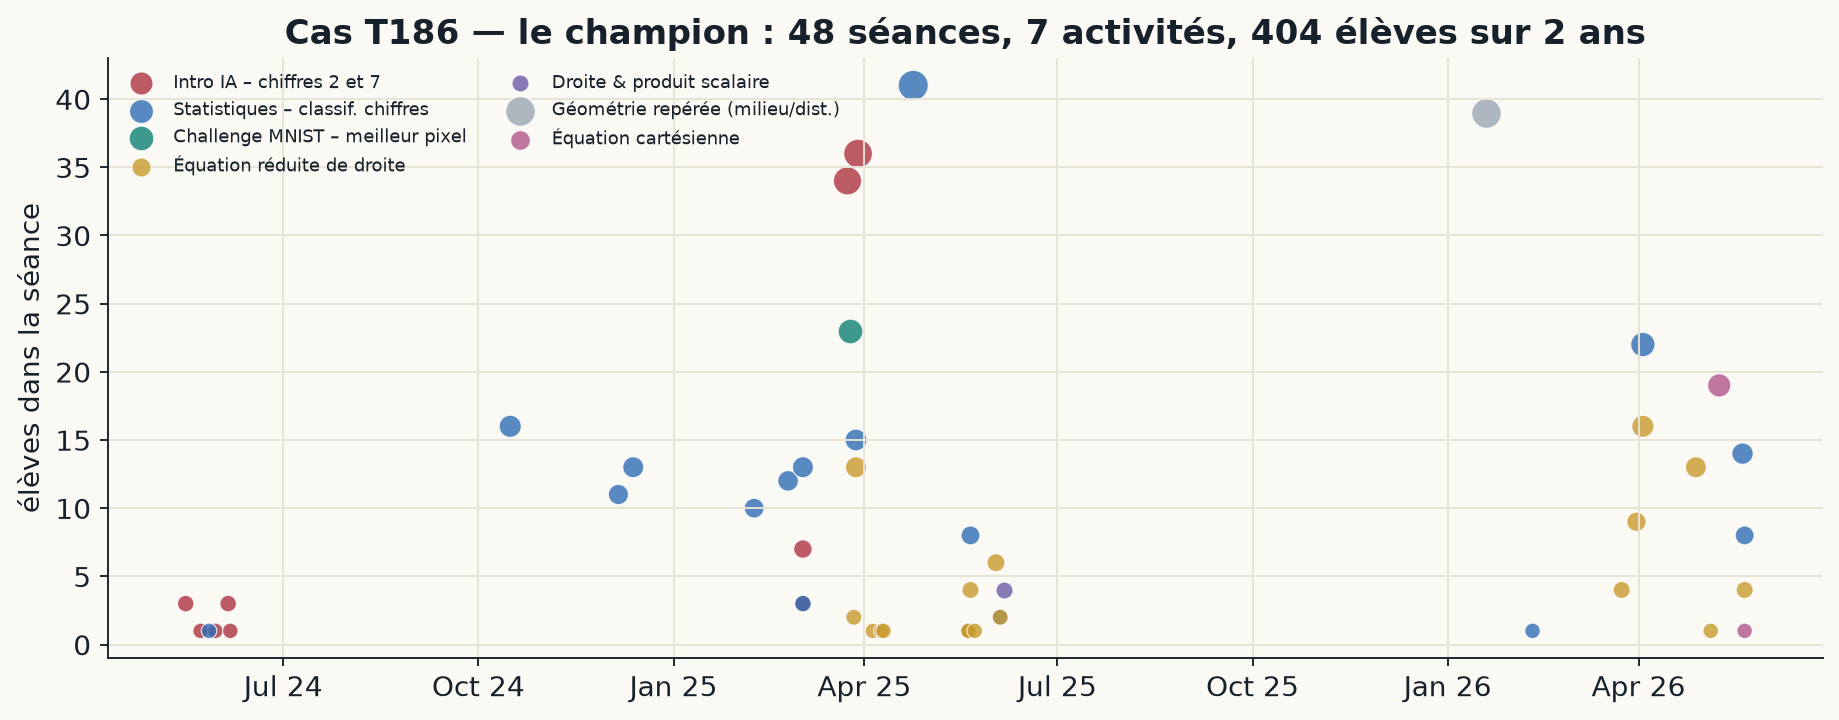
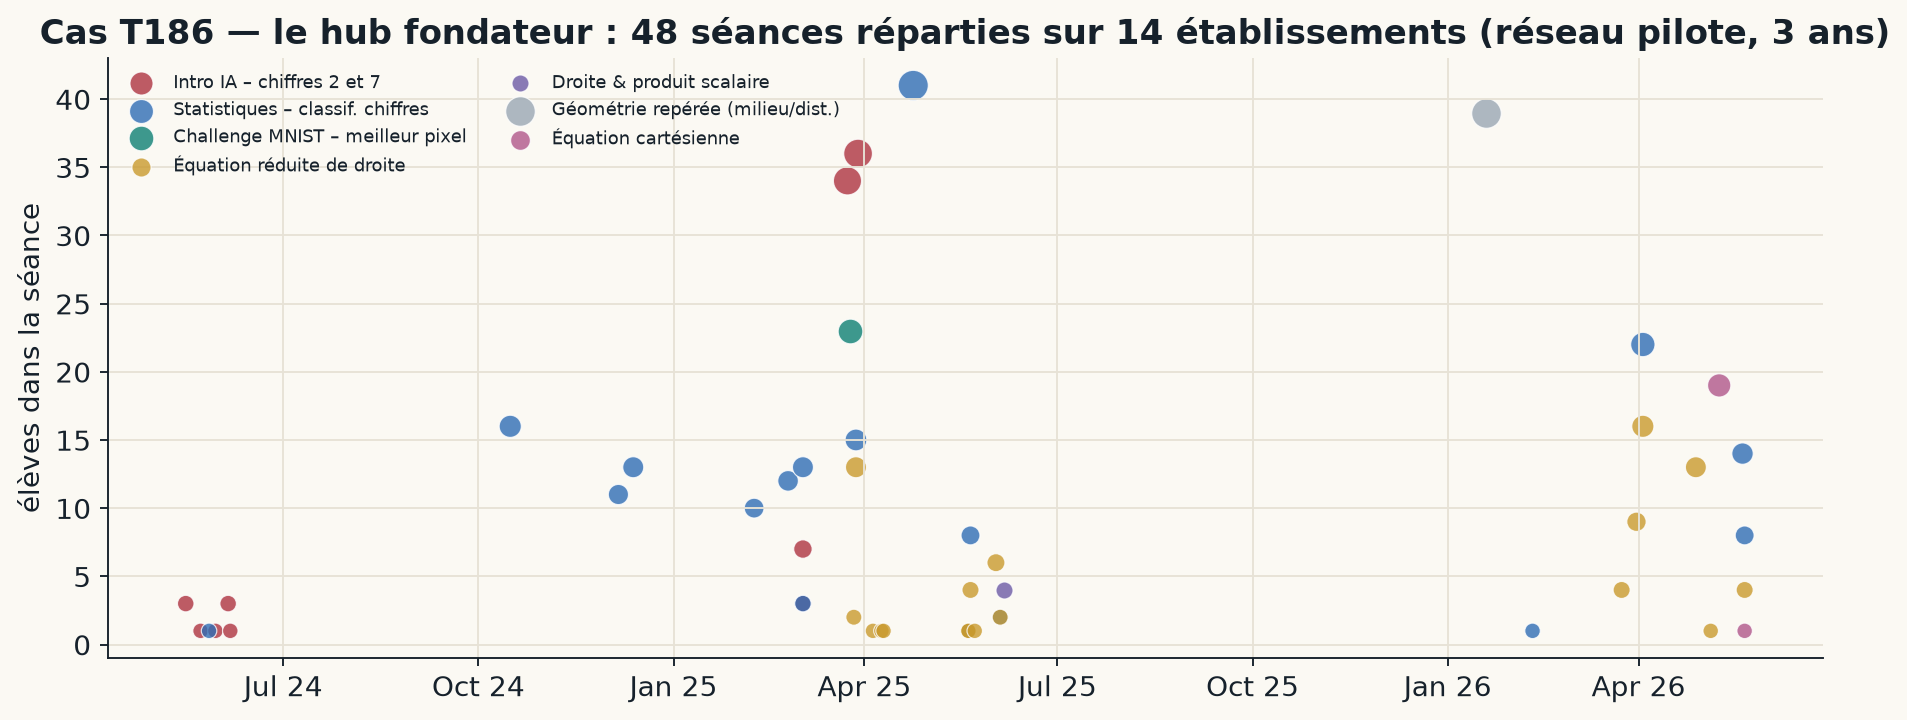
docs: coherence pass across 4 reports + final reflexive synthesis
TASK 1 — coherence across the 4 reports/dashboards (cross-references + corrections):
- Séances: the 404-pupil 'champion' T186 was the FOUNDER HUB (48 sessions across 14
  establishments, only 56 at Haubourdin) — reframed as a network phenomenon, not a model
  teacher; added the genuine organic power-user T187 (Bègles, 140 pupils in one spring).
  Regenerated the timeline chart with honest framing.
- Typologie: concentration claim now flags the hub (net-of-hub ~2000 pupils).
- Volet 1: 'demi-groupe de 17' nuanced — verified dédoublement signature is rare (~10 profs);
  contagion serves user COUNT, not retention (multi-prof null) nor depth (lighter colleagues);
  same-year (64%) vs same-month (25%) diffusion reconciled.
- Volet 2: formation drives UPTAKE not RETENTION (the +26pt gap is a composition artifact) —
  cross-ref to Typologie. Edits applied to both md and html where each claim lives.

TASK 2 — SYNTHESE_FINALE_2026.md: mechanism-driven capstone answering 'what 3 years of
Capytale×site usage tell us about adoption, profiles, formation effects, dynamics, modalities'
+ the 2026-2027 playbook. Central thesis: acquisition is won; durability & depth are the next
battle — and they are the SAME first-year gestures (>=2 activities: 76% vs 16% return;
real 45-min full-class lesson: 61% vs 20%). Separates amorçage (formation/collective/territory
= number) from durée (year-1 dose = depth & retention). Featured as capstone in README.

All PII-free (pseudonyms, establishment grain).

diff --git a/enquete_usages_2026/volet1/dashboard.html b/enquete_usages_2026/volet1/dashboard.html
@@ -202,6 +202,7 @@
     </div>
   </div>
   <div class="callout"><b>Deux portes d'entrée.</b> « Statistiques » est la <b>vitrine</b> du site (seule activité accessible sans compte). Mais <b>32 % des profs entrent par « Intro à l'IA »</b> — une activité ancienne, absente de mathadata.fr, trouvable uniquement via Capytale : <b>63 profs n'utilisent qu'elle</b> et ne voient jamais le reste du catalogue. Canal d'acquisition gratuit… et fuite à colmater.</div>
+  <div class="callout" style="border-left-color:var(--grey)"><b>⚠️ « Demi-groupe » : une inférence de taille, à nuancer.</b> Une séance de ~17 est <i>cohérente</i> avec un demi-groupe en salle info, mais la signature <i>vérifiable</i> d'un vrai dédoublement (deux séances complémentaires le même jour) n'apparaît que chez <b>~10 professeurs</b>. Beaucoup de séances de 17 sont plutôt de petites classes entières ou des groupes partiels. → voir la page <a href="seances.html">Séances</a> (§ scénarios).</div>
 </section>
 
 <section>
@@ -251,6 +252,7 @@
 <section>
   <div class="sechead"><span class="secnum">04</span><h2>Une diffusion encore solitaire</h2></div>
   <p class="sub">MathAData se diffuse prof par prof, rarement par contagion entre collègues. <b>146 établissements sur 182 (80 %)</b> ne comptent qu'un seul utilisateur. Le frein n'est pas l'essai raté entre collègues (8 cas seulement) — c'est l'absence d'un second prof.</p>
+  <div class="callout" style="border-left-color:var(--grey)"><b>⚠️ La contagion sert le nombre, pas (seul) la durabilité.</b> Le suivi fin (pages <a href="typologie.html">Typologie</a> / <a href="seances.html">Séances</a>) montre que l'établissement multi-prof <b>ne retient pas mieux</b> (30 % vs 31 % solo, p=0,87) et que les collègues recrutés adoptent un usage plus <b>léger</b>. Embarquer un 2ᵉ prof reste précieux pour le <b>nombre</b> d'usagers — mais doit s'accompagner d'un appui vers l'usage profond (2ᵉ activité, vraie séance salle info).</div>
   <div class="grid2" style="align-items:start">
     <div class="card">
       <div class="chart-ttl">Profs utilisateurs par établissement</div>

diff --git a/enquete_usages_2026/volet2/dashboard_volet2.html b/enquete_usages_2026/volet2/dashboard_volet2.html
@@ -131,6 +131,7 @@ footer{padding:48px 0 70px;color:var(--faint);font-family:var(--mono);font-size:
   <div class="wrap">
     <div class="shead"><span class="snum">02</span><h2>L'effet des formations : la concentration, pas le format</h2></div>
     <p class="lede">Le clivage utile n'est pas présentiel/webinaire. C'est <b>former un collectif local</b> (plusieurs collègues d'un établissement) vs <b>ratisser des individus dispersés</b> — <b>59 % vs 10 %</b> des établissements aboutissent en classe (facteur ~6), même si la base reste petite.</p>
+    <div class="callout"><b>⚠️ Amorçage ≠ durabilité (renvoi <a href="typologie.html">Typologie</a>).</b> Ce taux mesure si un établissement <b>bascule</b> en usage (amorçage). Attention : la formation <b>ne crée pas, à elle seule, des profs qui reviennent</b> l'année d'après — l'écart de rétention formés/non-formés est un <b>artefact de composition</b> (les établissements formés contiennent déjà plus de pionniers). La formation amorce là où un collectif s'en saisit ; la durabilité se joue ensuite sur la <b>dose de la 1ʳᵉ année</b> (≥ 2 activités, vraie séance), pas sur la formation en soi.</div>
     <figure class="reveal">
       <p class="figtitle">Aboutissement en classe selon la NATURE de la formation (% d'<b>établissements distincts</b> ayant une vraie classe ; n/N affiché)</p>
       <div class="scroll"><svg id="c_nature" width="1020" height="250"></svg></div>

diff --git a/enquete_usages_2026/commons/SYNTHESE_FINALE_2026.md b/enquete_usages_2026/commons/SYNTHESE_FINALE_2026.md
@@ -1,0 +1,169 @@
+# MathAData 2023-2026 : ce que trois ans d'usage révèlent
+## Synthèse transversale — et le levier d'un meilleur déploiement en 2026-2027
+
+**Date** : 21 juin 2026
+**Sources** : trois ans d'usage Capytale (déc. 2023 → juin 2026 ; 7 353 affectations, 224 profs ayant enseigné, 5 854 élèves) croisés au site mathadata.fr (2 715 comptes, inscriptions, formations, consultations). Synthèse des quatre rapports de l'enquête — [Volet 1](../volet1/RAPPORT_ENQUETE_USAGES.md) (usage classe), [Volet 2](../volet2/RAPPORT_VOLET2.md) (site × Capytale), [Typologie](TYPOLOGIE_PROFILS_2026.md) (le prof), [Séances](RAPPORT_SEANCES_2026.md) (la séance) — chacun vérifié de façon adversariale. Tous les chiffres sont au grain prof/établissement, pseudonymisés, sans donnée personnelle.
+
+---
+
+## La thèse en un paragraphe
+
+En trois ans, MathAData a **gagné la bataille de l'acquisition** et **pas encore celle de la durée ni de la profondeur**. La croissance est spectaculaire (+105 % d'usages en un an) mais d'une nature précise : elle repose sur un **flux de nouveaux entrants** qui, en majorité, font un usage **unique, court, superficiel et de fin d'année**, puis ne reviennent pas. Le déploiement 2026-2027 ne se joue donc **pas** sur « attirer plus » — la machine à recruter fonctionne remarquablement — mais sur **« faire revenir » et « faire approfondir »**. Et le résultat le plus actionnable de cette enquête est que **ce sont les mêmes gestes** : les comportements de profondeur de la première année (une 2ᵉ activité, une vraie séance de 45 min en salle info, une 2ᵉ séance) sont aussi les meilleurs **prédicteurs du retour** l'année suivante. Les deux objectifs du pilote — plus de profs *et* un meilleur mode d'usage — convergent sur un seul levier : **installer la dose dès les premières semaines**.
+
+---
+
+## I. Une croissance par acquisition, pas par accumulation
+
+L'année 2025-2026 a **plus que doublé** le volume de la précédente (2 181 → 4 479 usages élèves, année non finie). Mais la mécanique de cette croissance est singulière, et fragile.
+
+**La base se renouvelle plus qu'elle ne s'accumule.** Sur les 151 profs qui ont enseigné en 2025-2026, **123 (81,5 %) sont entièrement nouveaux**, et ils génèrent **74 % du volume** de l'année. L'effet net des profs déjà présents est **quasi nul** : les 26 récurrents ont fait 1 065 élèves en 24-25 contre 1 062 en 25-26. Autrement dit, chaque rentrée n'**ajoute** pas une couche sur la précédente — elle la **remplace**. Le noyau dur — profs présents les trois années — se compte sur les **doigts d'une main (4)**.
+
+**La rétention est le point de fuite, pas l'acquisition.** D'une année sur l'autre, seuls **~31 %** des professeurs reviennent enseigner (mesuré proprement sur les 101 profs qui *pouvaient* revenir, c.-à-d. entrés avant 2025-2026 ; les entrants de cette année ne sont pas encore observables). Les trois rapports convergent (30 % Volet 1, 29,5 % Volet 2, 31 % Typologie). Deux profs sur trois décrochent.
+
+**Le seul vrai changement de fond entre les vagues est encourageant.** À stade comparable (première année d'usage), les trois cohortes 2023→2024→2025 sont **comportementalement identiques** (médiane 2 séances, ~45 % de one-shot). Une seule chose dérive nettement : la part des entrants qui atteignent **une classe entière dès leur première année** passe de **5 % → 44 % → 57 %**. L'outil n'entre plus par un test timide ; il entre de plus en plus **directement en vraie classe**. C'est le signe que MathAData a réussi sa mue — de « gadget IA » (l'activité historique recule de −485 usages) vers un **outil arrimé au programme de 2nde** (statistiques +1 340, géométrie +1 236).
+
+> **Mécanisme.** On a construit une excellente machine à *recruter* et à *faire entrer en classe*. On n'a pas (encore) construit la machine à *faire revenir*. Tant que la seconde n'existe pas, le volume restera proportionnel au seul effort d'acquisition de l'année — un château bâti sur du sable qu'il faut re-verser chaque rentrée.
+
+---
+
+## II. Deux goulots — et le second est le vrai problème
+
+L'intuition naturelle est que le défi est de « faire passer les profs à la classe ». Les données disent le contraire : pour un vrai enseignant, atteindre la classe n'est **pas** le goulot.
+
+**Goulot 1 — atteindre la classe : déjà franchi par presque tous les vrais profs.** Sur 401 comptes engagés, 224 (56 %) ont enseigné à leurs élèves. Mais les 177 qui n'y arrivent pas sont **à 79 % des stagiaires vus seulement en formation** (140) ou des testeurs sans classe (37). Une fois retirés les stagiaires, **86 % des vrais enseignants atteignent une classe**. Le « filtre » d'avant-classe est donc **quasi définitionnel** (être ou non en responsabilité de classe), pas un problème d'outil. Le type d'établissement ne discrimine rien une fois les stagiaires retirés (lycée 87 % vs collège 83 %).
+
+**Goulot 2 — revenir : c'est ici que tout se perd.** Et c'est un goulot d'un genre particulier, illustré par le **paradoxe du déployeur** : les 105 « déployeurs classe entière » — le gros du peloton — atteignent une vraie classe à un taux proche des pionniers (44 % d'entre eux dépassent 20 élèves dès l'an 1), **et pourtant 0 sur 41** (parmi les éligibles) ne reviennent l'année suivante. **Atteindre une vraie classe ne garantit pas de revenir.**
+
+> **Mécanisme.** Les deux échecs sont **distincts** : réussir le premier contact (un déploiement classe entière) et réussir le réengagement (revenir l'an d'après) sont deux compétences séparées. La majorité réussit le premier et rate le second. **Tout l'effort [phone redacted] doit viser le réengagement N+1, pas l'acquisition (saturée) ni le premier contact (acquis).**
+
+---
+
+## III. L'usage est massivement superficiel — et c'est l'autre moitié de l'enjeu
+
+Au-delà de « combien de profs reviennent », il y a « comment ils utilisent l'outil ». Là aussi, le constat est net : **l'usage dominant est mince**.
+
+La séance type est une **courte salve d'un matin de semaine** : médiane ~7 minutes d'activité reconstruite, 66 % sous 15 minutes ; 45 % des séances le matin, pics mardi/jeudi. **41 % des profs (91/224) font une seule séance**, point. Un prof sur cinq (« petits groupes ») touche ~4 élèves qui travaillent **6 minutes** — un survol, pas une séance.
+
+Les **modes « riches »** — précisément ceux que le pilote veut développer en 2026-2027 — restent **minoritaires** :
+
+| Mode de qualité | Prévalence 2025-26 |
+|---|---|
+| Enseigner **≥ 2 activités** dans l'année | 52 profs / 224 (**23 %**) |
+| Faire **≥ 1 vraie séance de 45 min en classe entière** | 63 profs / 224 (**28 %**) |
+| Faire un **vrai demi-groupe** (dédoublement vérifié) | **~10 profs** (signature rare) |
+| **Revenir** l'année suivante | 31 % (cohorte éligible) |
+
+> **Mécanisme.** La **profondeur est la ressource rare** du dispositif. Et — point capital de mise en cohérence (cf. [Séances](RAPPORT_SEANCES_2026.md) §III, [Volet 1](../volet1/RAPPORT_ENQUETE_USAGES.md) §1.3) — beaucoup de ce qu'on prenait pour des demi-groupes (séances de ~17 élèves) sont en fait de **petites classes entières ou des groupes partiels** : le *vrai* dédoublement (deux séances complémentaires le même jour) ne se vérifie que chez une dizaine de profs. Le « demi-groupe en salle info », souvent présenté comme le mode dominant, est en réalité une **cible à construire**, pas un acquis.
+
+---
+
+## IV. La découverte centrale : profondeur et durée sont le même geste
+
+Voici le résultat qui relie les deux moitiés de l'enquête — et qui doit organiser le déploiement 2026-2027.
+
+**Les gestes de profondeur de la première année sont les meilleurs prédicteurs du retour.** Sur la cohorte éligible (n=101, retour moyen 31 %) :
+
+| Geste posé dès la 1ʳᵉ année | Taux de retour l'année suivante |
+|---|---|
+| A enseigné **≥ 2 activités** | **76 %** (vs 16 % pour une seule) |
+| A fait **≥ 1 vraie séance de 45 min en classe entière** | **61 %** (vs 20 % sans) |
+| A fait **≥ 2 séances** | 40 % (vs 20 % pour une seule) |
+| Est entré **en milieu d'année** (déc-fév) plutôt qu'en fin (mars-juin) | 53 % (vs 27 %) |
+| **« One-shot » sans test** (le profil négatif) | **19 %** |
+
+À l'inverse, ce qui **ne** prédit **pas** la durée : être dans un établissement multi-prof (30 % vs 31 % solo, écart nul), avoir été formé (l'écart apparent est un artefact, §VI), la taille de classe en soi (un déploiement classe entière *peu profond* — une seule activité, deux séances — ne retient pas).
+
+> **Mécanisme — et l'honnêteté qui va avec.** Attention à la causalité : un prof qui dose dès l'an 1 est aussi un prof plus engagé au départ (confusion partielle). On ne peut donc pas affirmer que « faire une 2ᵉ activité *cause* le retour ». Mais le message opérationnel tient quand même, et il est puissant : **le prof qui va durer se reconnaît dès ses premières semaines à la profondeur de son premier usage.** C'est un signal **précoce et observable** sur lequel agir — et viser à le *provoquer* (pousser la 2ᵉ activité, la vraie séance) est le pari le plus rationnel, parce qu'il sert les **deux** objectifs à la fois.
+
+**Et la durabilité se construit, elle n'est pas innée.** Parmi les 32 profs pluriannuels, **25 ont démarré modestement** (< 5 séances la première année) avant de grandir ; aucun n'était un « génie d'emblée ». Corollaire stratégique : **ne pas pré-sélectionner les profs « intenses »** — il faut **nourrir le 2ᵉ geste** des entrants modestes (ceux qui font une 2ᵉ séance sont déjà sur la bonne pente).
+
+---
+
+## V. Les déterminants des modes-cibles, un par un
+
+Le pilote vise explicitement, pour 2026-2027 : **≥ 2 activités par classe et par an, de vrais demi-groupes, des séances de ≥ 45 min en salle info.** Voici ce que les données disent des **déterminants** de chacun.
+
+**1. Le parcours à ≥ 2 activités : un problème de *progression annuelle*, pas de catalogue.**
+Le parcours-type des profs qui diversifient est **Statistiques → Géométrie repérée** (18 profs) — exactement l'ordre du programme de 2nde. Ce n'est donc pas qu'il manque des activités (le catalogue en compte 12), c'est qu'il manque un **parcours annuel lisible** qui dit *quand* placer la 2ᵉ. Déterminant : un séquençage explicite « entrée par les statistiques à l'automne → géométrie analytique à l'hiver/printemps ». Le levier est d'autant plus rentable que la 2ᵉ activité **double le taux de retour**.
+
+**2. Les vrais demi-groupes : un problème d'*équipement et d'organisation établissement*.**
+Les ~10 profs qui font de vrais dédoublements sont des **pionniers**, dans des établissements **un peu plus favorisés** (IPS médian 115 vs 110) — un proxy de l'**accès à une salle informatique** et d'une organisation en groupes dédoublés. Déterminant : la **capacité matérielle** (postes, créneaux salle info) bien plus que l'envie. Levier : cibler les établissements à capacité salle-info connue, et fournir un **protocole de dédoublement clé en main** (le groupe A en TP pendant que le groupe B fait autre chose, puis inversion).
+
+**3. Les séances de ≥ 45 min : un problème de *conception d'activité* (et un marqueur d'engagement).**
+20 % des séances dépassent 45 min ; **28 % des profs** en font au moins une en classe entière — et ceux-là **reviennent à 61 %** (vs 20 %). Une séance de 45 min suppose une activité **assez riche pour remplir l'heure** (vs une démo de 10 min). Déterminant : la **densité pédagogique** de l'activité + l'accès salle info. Levier : signaler/concevoir des activités « **séance complète 55 min** » distinctes des « démos », et diffuser le **guide de connexion Capytale** — dont **74 % des lecteurs cliquent ensuite vers Capytale** : c'est le marqueur de passage à l'acte le plus fiable du funnel.
+
+**4. La récurrence (revenir avec une nouvelle promo) : un problème d'*intégration à la progression*.**
+27 « triplets » prof × activité × établissement sont **rejoués** sur deux ans ou plus (la même séance « Intro IA » rejouée à 448 jours d'écart, 31 puis 29 élèves). Déterminant : que l'activité ait trouvé sa **place fixe dans la progression annuelle** du prof. Levier : la **relance de rentrée** ciblée (« vous aviez utilisé X l'an dernier, voici la suite pour la même classe »), qui attaque directement la rétention de 31 %.
+
+> **Mécanisme transversal.** Ces quatre modes **co-occurrent** : un prof qui fait une vraie séance de 45 min est souvent celui qui fait 2 activités et revient. Ce ne sont pas quatre leviers indépendants mais **quatre faces d'un même basculement** — celui d'un usage « démo/essai » vers un usage « cours intégré ». Provoquer *un* de ces gestes tôt augmente la probabilité des autres.
+
+---
+
+## VI. Formation, collectif, territoire : des leviers d'*amorçage*, pas de *durée*
+
+Trois leviers qu'on crédite spontanément de l'usage durable. Les données obligent à les **requalifier** : ils agissent sur l'**amorçage** (faire basculer un établissement en usage), pas sur la **durabilité** individuelle.
+
+**La formation est un haut d'entonnoir puissant… à faible rendement, et non causal sur la durée.**
+- Elle remplit massivement le haut : 631 comptes formés. Mais **sur 148 comptes vus en formation, ~6 (4 %) ont ensuite enseigné** à leurs élèves. C'est *le* point de fuite.
+- Ce qui distingue les formations qui aboutissent, ce n'est **pas le format** (présentiel vs webinaire) mais la **concentration** : une formation **établissement-ciblée** (plusieurs collègues d'un même lieu) fait basculer **59 % des établissements** vs **10 %** pour une journée académique de masse (1 prof dispersé) — un **facteur ~6**, alors que les deux sont du présentiel.
+- Mais — mise en cohérence essentielle (cf. [Typologie](TYPOLOGIE_PROFILS_2026.md) §III) — la formation **ne fabrique pas de profs qui reviennent** : l'écart de rétention formés/non-formés (54 % vs 27 %) est un **artefact de composition** (les établissements formés contiennent déjà plus de pionniers ; à profil égal, aucun gain). S'ajoute l'**endogénéité** (9 des 26 établissements présentiels à usage utilisaient déjà Capytale *avant* la formation) et le **pré-service** (ENS/MEEF, 20 % de l'effort présentiel, **0 % d'usage par construction** — sans classe).
+
+**Le collectif intra-établissement ajoute des usagers, pas de la fidélité.** 80 % des établissements n'ont qu'un prof, et embarquer un collègue est précieux **pour le nombre**. Mais l'établissement multi-prof **ne retient pas mieux** (30 % vs 31 %, écart nul), et les collègues recrutés adoptent un usage **plus léger** (déploiement ponctuel) sans hériter de la fidélité du pionnier. La diffusion intra-établissement est par ailleurs plus **échelonnée** qu'il n'y paraît (au grain mois, seuls 25 % des établissements multi-profs démarrent simultanément).
+
+**Le territoire concentre le volume, mais pas par « effet de lieu ».** Lille capte 26 % des élèves — un **vrai foyer** (grappe de lycées du Nord, devenue auto-portante). Mais sa meilleure **rétention** (52 % vs 24 %) est un **pur artefact de composition** : Lille a simplement plus de pionniers dans sa cohorte ; à profil égal, **aucun écart résiduel**. « Former beaucoup » ne suffit pas : Montpellier a le plus gros contingent de formés (79) pour **3,9 élèves/formé**, cinq fois moins que Lille.
+
+> **Mécanisme.** Formation concentrée, collectif local, foyer territorial : **le même facteur** explique l'amorçage à toutes les échelles — *un collectif local se saisit de l'outil*, par opposition au ratissage d'individus dispersés. Mais **aucun** de ces leviers ne règle le problème **individuel** de la durée et de la profondeur. Ce sont **deux chantiers distincts** : l'amorçage (collectif, formation ciblée, territoire) pour le **nombre** ; la dose-an-1 (§IV-V) pour la **durée et la profondeur**. Les confondre, c'est créditer la formation d'une rétention qu'elle ne produit pas.
+
+---
+
+## VII. Comment les profs entrent : deux portes et un héritage
+
+L'acquisition, elle, est largement **organique**. **66,7 % des sessions du site viennent d'un moteur de recherche** ; l'emailing (Brevo, 6 %) **entretient** mais ne recrute pas. Et l'entrée se fait par **deux portes disjointes** :
+- **Site-first** : on découvre mathadata.fr, on s'inscrit, on bascule (un jour) vers Capytale.
+- **Capytale-direct** : **44 % des établissements à usage classe n'ont aucun compte site**. Ils sont entrés directement par le catalogue Capytale — souvent par l'ancienne activité « Intro à l'IA » (absente du site), héritage des précurseurs. **63 profs n'utilisent qu'elle** et **ne voient jamais le catalogue**.
+
+> **Mécanisme & levier.** La découverte « froide » passe par Capytale et le réseau de pairs, pas par le site — qui est surtout un **canal de préparation et de relance** pour qui connaît déjà MathAData. Deux gestes à coût quasi nul : (a) un **bandeau « Découvrez les autres activités sur mathadata.fr »** dans « Intro à l'IA » pour récupérer les captifs ; (b) soigner la **fiche catalogue Capytale**, vrai point d'entrée des découvreurs.
+
+---
+
+## VIII. Le playbook 2026-2027
+
+Le pilote a deux objectifs — **plus de profs** et **un meilleur mode d'usage**. La synthèse les sépare nettement, puis montre où ils convergent.
+
+### Objectif A — plus de professeurs utilisateurs (l'amorçage)
+1. **Convertir le réservoir « site-only en sursis ».** ~148 établissements ont un compte qui a cliqué vers Capytale sans classe retrouvée, et 75 % des comptes site-only datent de 2026 : ce n'est pas un cimetière, c'est un **sursis de déploiement**. Relance à la **rentrée de septembre** (le créneau de déploiement), guide de connexion Capytale en avant.
+2. **Relancer les ~62 décrocheurs** de 2024-2025 dès la rentrée (« voici la suite pour votre classe »).
+3. **Récupérer les captifs Capytale-direct** (bandeau Intro-IA → catalogue) et soigner la fiche Capytale.
+4. **Réorienter l'effort de formation** des journées de masse (10 % d'aboutissement) vers le **ciblage établissement** (59 %) ; sortir le **pré-service** du KPI immédiat (le suivre à T+1 an).
+5. **Activer la contagion** intra-établissement pour le nombre — en sachant qu'elle n'apporte pas la durée toute seule (cf. objectif B).
+
+### Objectif B — un meilleur mode d'usage (la profondeur, qui nourrit aussi la durée)
+6. **Onboarding séquencé de l'année 1** : amener explicitement, dès les premières semaines, **une 2ᵉ activité** (parcours Stat → Géométrie) et **une vraie séance de 45 min en salle info**. Ce sont les deux gestes qui **doublent à triplent** le taux de retour — viser la profondeur, c'est aussi viser la durée.
+7. **Concevoir/signaler des activités « séance complète 55 min »** (vs démos), assez denses pour remplir l'heure de TP.
+8. **Outiller le demi-groupe réel** : protocole de dédoublement clé en main, ciblé sur les établissements à capacité salle-info.
+9. **Capter tôt dans l'année** : les entrées de fin d'année (juin, 14 % de retour) sont le moteur du décrochage ; pousser un cycle de promotion en **septembre-décembre**.
+
+### Le double gain, et les KPI pour le mesurer
+Le fil rouge : **viser la profondeur de l'année 1 sert simultanément les deux objectifs** — chaque prof qu'on amène à une 2ᵉ activité et une vraie séance est aussi un prof qu'on a deux à quatre fois plus de chances de revoir l'an prochain. Pour piloter, suivre **quatre KPI de cohorte** (et non le seul volume) :
+- **% des entrants de l'année qui font ≥ 2 activités** (cible : > 23 %) ;
+- **% des entrants qui font ≥ 1 vraie séance de 45 min en classe entière** (cible : > 28 %) ;
+- **rétention N+1** (cible : > 31 %) ;
+- **délai médian formation → 1ʳᵉ séance** (~27 j aujourd'hui ; relancer à J+45 les formés dont l'établissement n'a rien déclenché).
+
+---
+
+## Coda — la bataille a changé de nature
+
+La **phase 1** est gagnée : prouver que MathAData s'utilise en vraie classe, et le faire à l'échelle nationale (24 académies, +105 %/an). La **phase 2** est devant : faire **durer** et **approfondir**. La bonne nouvelle de cette enquête, c'est que ces deux exigences n'en font qu'une, et qu'elle est **observable dès les premières semaines** d'un professeur — à sa 2ᵉ activité, à sa première vraie séance d'une heure. Le pilotage 2026-2027 ne devrait plus regarder *combien d'élèves ce mois-ci*, mais *quelle dose les nouveaux entrants posent dès leur première séquence* — car c'est cette dose qui, seule, transforme une vague de plus en une base qui s'accumule.
+
+---
+
+### Limites (héritées des quatre rapports)
+- **Censure** : 2025-2026 incomplète (extraction 19 juin) ; la rétention ne se mesure que sur les cohortes ayant *pu* revenir (101 profs).
+- **Causalité** : les prédicteurs de profondeur (≥ 2 activités, séance 45 min) sont **corrélés** au retour, partiellement **confondus** avec l'engagement initial — signaux précoces actionnables, pas causes prouvées.
+- **Circularité** signalée là où elle existe (profils pionnier/fidèle définis via le multi-années ; scénarios « durables »).
+- **Deux mondes sans clé commune** : site (nominatif) et Capytale (anonyme) reliés au grain établissement/cohorte ; appariement individuel inféré (46 paires).
+- **Une « séance »** est un cluster reconstruit (médiane ~7 min) ; le **hub fondateur** (compte « 0 », 404 élèves sur 14 établissements) est isolé, jamais lu comme un prof local.
+- Petits effectifs (vrais demi-groupes n≈10, formation établissement-ciblée n=22 établissements) : **ordres de grandeur**, directions robustes.
+
+**Documents sources** : [Volet 1](../volet1/RAPPORT_ENQUETE_USAGES.md) · [Volet 2](../volet2/RAPPORT_VOLET2.md) · [Typologie](TYPOLOGIE_PROFILS_2026.md) · [Séances](RAPPORT_SEANCES_2026.md). Pages web : [accueil](https://akimx98.github.io/mathadata-dashboard-next/). Faits : `commons/data/`, `volet1/data/`, `volet2/data/` (pseudonymisés, PII-free).

diff --git a/enquete_usages_2026/volet1/RAPPORT_ENQUETE_USAGES.md b/enquete_usages_2026/volet1/RAPPORT_ENQUETE_USAGES.md
@@ -78,7 +78,9 @@ C'est exactement la signature d'un **TP en salle informatique en demi-groupe** :
 - **41,8 %** des classes tombent dans la fourchette **12–18 élèves** (demi-groupe, ~18 postes en salle info) ;
 - **25,2 %** dans la fourchette 24–36 (groupe-classe complet).
 
-Le demi-groupe est donc le **mode d'usage dominant**. Par activité, statistiques (médiane 17), Intro IA (16) et équation de droite (15) sont des activités de demi-groupe ; seules « Géométrie repérée » (médiane **25**) et « Droite & produit scalaire » (20) montent vers la classe entière.
+La taille de demi-groupe est donc **la taille de séance dominante**. Par activité, statistiques (médiane 17), Intro IA (16) et équation de droite (15) sont des activités de demi-groupe ; seules « Géométrie repérée » (médiane **25**) et « Droite & produit scalaire » (20) montent vers la classe entière.
+
+> **⚠️ Nuance (renvoi à [Séances](../commons/RAPPORT_SEANCES_2026.md) §III).** Une séance de ~17 est *cohérente* avec un demi-groupe en salle info, mais ce n'est qu'une **inférence de taille**. Quand on cherche la *signature vérifiable* d'un vrai dédoublement — **deux séances complémentaires le même jour** — on ne la trouve que chez **~10 professeurs** (et ~4 dédoublements équilibrés nets). Autrement dit, beaucoup de séances de 17 sont plutôt de **petites classes entières ou des groupes partiels** que des demi-groupes confirmés. Les vrais demi-groupes sont rares et se concentrent chez des pionniers, en établissements un peu plus favorisés (IPS médian 115 vs 110) — un point clé pour l'objectif « vrais demi-groupes » de 2026-2027.
 
 ### 1.4 Deux portes d'entrée : le site-vitrine et le « Capytale-direct »
 
@@ -184,6 +186,10 @@ Deux faits éclairants :
 
 - **Aucun code d'activité n'est partagé entre deux professeurs** (sur 385 codes de distribution) : chaque enseignant crée sa propre distribution. La transmission entre collègues passe par le bouche-à-oreille et la ré-appropriation, jamais par le partage d'un même lien de classe.
 - Le **« collègue non convaincu »** (teste mais n'enseigne pas, alors qu'un confrère du même établissement enseigne) est **rare : 8 cas seulement**. Le frein n'est donc pas l'essai non concluant entre collègues — c'est **l'absence d'un second prof tout court**.
+
+> **⚠️ Mise en cohérence (renvois [Typologie](../commons/TYPOLOGIE_PROFILS_2026.md) §III et [Séances](../commons/RAPPORT_SEANCES_2026.md)).** Deux nuances importantes sur la contagion, issues du suivi fin :
+> 1. **Le collectif augmente le nombre d'usagers, pas le taux de retour.** Être en établissement multi-prof ne change rien à la rétention (30 % multi-prof vs 31 % solo, p=0,87) : c'est un **nul confirmé**. Et le suivi de la diffusion montre que les **collègues recrutés adoptent un usage plus léger** (déploiement ponctuel) et **n'héritent pas de la fidélité du pionnier**. La contagion sert l'objectif « plus de profs », pas mécaniquement l'objectif « usage durable/profond ».
+> 2. **« Même année » ≠ « même mois ».** Les 64 % de « lancement conjoint » sont mesurés *au grain année* ; au grain *mois*, seuls **25 %** des établissements multi-profs démarrent réellement le même mois — l'écart médian d'entrée entre collègues est de ~2 mois. La diffusion est donc plus **échelonnée** qu'il n'y paraît, semée par un pionnier souvent intensif.
 
 ### 3.1 Quatre études de cas
 
@@ -375,7 +381,7 @@ L'écart (**+3,4 points**) est réel mais **modéré** : MathAData n'est **pas**
 ## 12. Recommandations issues des données
 
 1. **Faire de la rétention la priorité n°1.** Le point faible n'est pas l'acquisition (excellente) mais le retour d'une année sur l'autre (**30 %**). Cibler dès la rentrée les **62 professeurs de 2024-2025 qui n'ont pas réenseigné**, avec une relance et les nouveautés du catalogue.
-2. **Activer la contagion intra-établissement.** **80 % des établissements n'ont qu'un prof**, et le frein n'est pas l'essai raté mais l'absence de second prof. Outiller le prof-pionnier pour embarquer un collègue (kit « présenter MathAData en réunion de cabinet ») démultiplie sans coût d'acquisition. Le lancement conjoint (Bègles) et la diffusion échelonnée (Calais) prouvent que ça marche.
+2. **Activer la contagion intra-établissement — pour le *nombre*, en accompagnant la *profondeur*.** **80 % des établissements n'ont qu'un prof**, et le frein n'est pas l'essai raté mais l'absence de second prof. Outiller le prof-pionnier pour embarquer un collègue (kit « présenter MathAData en réunion de cabinet ») démultiplie sans coût d'acquisition. Le lancement conjoint (Bègles) et la diffusion échelonnée (Calais) prouvent que ça marche **pour recruter**. *Réserve (cf. §3) : les collègues recrutés adoptent un usage plus léger et ne retiennent pas mieux — la contagion ne suffit pas, il faut l'assortir d'un accompagnement vers l'usage profond (2ᵉ activité, vraie séance salle info).*
 3. **Récupérer les profs « Capytale-direct ».** Un tiers des enseignants entrent par « Intro à l'IA » et **63 ne voient jamais le reste du catalogue**. Un simple bandeau « Découvrez les autres activités sur mathadata.fr » dans l'activité historique peut convertir ce trafic gratuit en découverte du catalogue — levier à coût quasi nul, fort potentiel.
 4. **Concentrer l'accompagnement sur janvier-juin**, où se joue ~80 % de l'activité, et préparer la **montée en charge de mai**.
 5. **Capitaliser sur le modèle « un gros lycée = un foyer ».** Identifier et accompagner les établissements-grappes émergents (Bègles, Calais, Nantes, Limoges) comme têtes de pont académiques.

diff --git a/enquete_usages_2026/commons/RAPPORT_SEANCES_2026.md b/enquete_usages_2026/commons/RAPPORT_SEANCES_2026.md
@@ -95,8 +95,11 @@ Chez les « petits groupes », l'élève travaille **6 min** et **75 % de ces pr
 
 ## VI. Galerie de cas (anonymisés)
 
-### T186 — le power-user, et la plus nette trajectoire « fait, pas né »
-Lille, lycée. Le prof le plus actif du corpus sur **toutes** les dimensions de largeur à la fois. **An 1** (mai-juin 2024) : un essai prudent — 6 micro-séances, 2 activités, classe max 3, cinq séances à 0 min (test sur soi). **An 2** : la bascule — 29 séances, 5 activités, vrais déploiements classe entière (16, 34, 36, 41 élèves), le catalogue grimpe vers Challenge MNIST et Droite & produit scalaire. **An 3** : consolidation — 13 séances, ouverture sur une Géométrie repérée à 39 élèves (73 min) + une activité neuve. **Bilan** : 404 élèves uniques (#1/224 ; **6,8 % de tous les élèves de la plateforme**), 48 séances (#1), **7 activités** (le seul ≥7 ; médiane = 1), 3 années, 101 élèves en travail-maison (le seul ≥100). La continuation atteint 10 % (~3× la médiane). *(n=1, descriptif ; ~14 séances à 0 min sont du test enseignant, pas des classes.)*
+### T186 — non pas un champion, mais le hub fondateur du réseau pilote
+⚠️ **Mise en cohérence avec le [Volet 1](../volet1/RAPPORT_ENQUETE_USAGES.md) (§6) et le [Volet 2](../volet2/RAPPORT_VOLET2.md) (§12).** Le compte n°1 par nombre d'élèves (404, identifiant séquentiel « 0 ») n'est **pas un professeur local hyperactif** : ses 48 séances sont **réparties sur 14 établissements** (Haubourdin, Lille, Orsay, Toulouse, **Papeete**, Calais…), avec **seulement 56 élèves à Haubourdin**. C'est le **compte-maître du réseau pilote** (le fondateur), qui clone l'activité dans des classes hôtes lors d'animations. Sa « trajectoire » (an 1 prudent → an 2 explosion → an 3 diversifié sur 7 activités) raconte donc le **déploiement du pilote sur le territoire**, pas l'apprentissage d'un enseignant. Le Volet 2 l'**isole** comme nœud historique ; au grain prof il fausse les classements (à retraiter à part). On le garde ici comme **phénomène** — la signature d'un essaimage piloté — pas comme modèle à reproduire.
+
+### T187 — le vrai power-user organique : déployer fort dès la première année
+Lycée Vaclav Havel, **Bègles** (Bordeaux). Le plus gros porteur **non-pionnier** du dispositif : **140 élèves dès sa première année** (printemps 2026), 7 séances d'une seule activité, classes de **46, 26, 26, 25** élèves — un mélange de classe entière et de demi-groupes déployés en deux mois. Aucun test préalable, aucun historique : un nouvel entrant peut **déployer à grande échelle immédiatement** (cf. Volet 1, §6 et l'étude de cas Bègles). C'est le pendant « organique » du hub : l'impact n'a pas besoin de trois ans ni d'un réseau — il peut surgir d'un seul prof décidé, en une saison. *(Reste mono-activité et mono-année à ce stade : la question ouverte est s'il reviendra et diversifiera — cf. déterminants de la durabilité, §05.)*
 
 ### T005 & T012 — le paradoxe « atteint puis disparu »
 **T005** (Toulouse) : 3 séances, **toutes la même activité** « Intro IA » — lun. 19 mai 16 h (19 élèves, 52 min), un fragment 2 élèves le même jour, ven. 23 mai 10 h (**41 élèves**, 28 min). 42 élèves sur 4 jours, une activité, **jamais revenu**. **T012** (Pantin) : un one-shot plus riche — lun. 31 mars 14 h, **36 élèves**, 92 min, continuation 28 % — un vrai cours complet, fait une fois, **jamais répété**. **Le motif d'archétype** : les **41 déployeurs éligibles décrochent tous (0/41)**, chacun n'a utilisé **qu'une seule activité** — contre **90 % de retour (27/30)** chez ceux qui ont atteint une classe entière *avec* 2+ activités et ~5 séances. **La portée n'est pas le tueur ; la portée *peu profonde* l'est.** (Fisher p≈2e-11 sur le contraste classe-entière.)

diff --git a/enquete_usages_2026/README.md b/enquete_usages_2026/README.md
@@ -6,8 +6,11 @@ Analyse des usages de MathAData en deux volets. Organisation :
 enquete_usages_2026/
 ├── volet1/   — Données Capytale seules (usage en classe, anonyme)
 ├── volet2/   — Croisement mathadata.fr (site, nominatif) × Capytale
-└── commons/  — Analyses transverses aux deux volets
+└── commons/  — Analyses transverses + synthèse finale
 ```
+
+## ★ [Synthèse finale](commons/SYNTHESE_FINALE_2026.md) — à lire en premier
+**Capstone réflexif** croisant les 4 rapports : que conclure de 3 ans d'usage (Capytale × site) sur l'adoption, les profils, l'effet des formations, les dynamiques et les modes d'usage — et **comment déployer mieux en 2026-2027** (plus de profs *et* meilleur mode d'usage). Thèse : l'acquisition est gagnée, la **durée et la profondeur** sont la bataille à venir — et les données montrent que ce sont **les mêmes gestes de la 1ʳᵉ année** (≥2 activités, vraie séance de 45 min) qui les déterminent. → [`commons/SYNTHESE_FINALE_2026.md`](commons/SYNTHESE_FINALE_2026.md)
 
 ## [Volet 1 — Usage Capytale](volet1/) (`volet1/`)
 Que font les profs et les élèves **sur Capytale** (2023→2026) : croissance, comportements (test/enseigne), saisonnalité, géographie, IPS, taille de classe, rétention, modèle des comptes (401 engagés → 224 ont enseigné → 5 854 élèves).

diff --git a/enquete_usages_2026/commons/TYPOLOGIE_PROFILS_2026.md b/enquete_usages_2026/commons/TYPOLOGIE_PROFILS_2026.md
@@ -43,7 +43,7 @@ Le clustering sépare nettement les 224 enseignants en cinq archétypes, sur les
 
 <sub>¹ Somme des élèves uniques par prof ; le distinct global est 5 854.</sub>
 
-**La concentration est le premier fait** : 17 % de pionniers touchent autant d'élèves (~2 400) que les 47 % de déployeurs. L'impact repose sur une avant-garde.
+**La concentration est le premier fait** : 17 % de pionniers touchent autant d'élèves (~2 400) que les 47 % de déployeurs. L'impact repose sur une avant-garde. ⚠️ *Caveat : le 1ᵉʳ pionnier par élèves est le **hub fondateur** (compte « 0 », 404 élèves répartis sur 14 établissements — cf. [Volet 1](../volet1/RAPPORT_ENQUETE_USAGES.md) §6 et [Séances](RAPPORT_SEANCES_2026.md) §VI). Net de ce hub, les 37 autres pionniers touchent ~2 000 élèves — la concentration reste forte mais légèrement moindre.*
 
 ⚠️ **Attention** : pionniers et fidèles sont *définis* à partir de l'usage multi-années. Dire « les pionniers reviennent » est donc circulaire. Toute la suite s'attache à des prédicteurs **non circulaires**, mesurés sur la seule première année.
 

diff --git a/enquete_usages_2026/volet2/RAPPORT_VOLET2.md b/enquete_usages_2026/volet2/RAPPORT_VOLET2.md
@@ -119,6 +119,8 @@ L'écart est d'un **facteur ~6** (59 % vs 10 %), alors que établissement-ciblé
 
 **Et l'intention déclarée ne pilote rien à court terme.** Sur 239 validations, seules **29 (12 %)** déclarent au moins un module (32 % « pas encore d'idée », 56 % vide), et **6 intentions sur 99** seulement se réalisent (même activité dans l'établissement). Mais le goulot n'est pas le choix du module : **85 des 93 intentions non réalisées émanent d'établissements n'ayant déclenché *aucun* TP Capytale**. Le blocage est le **passage à l'acte en classe**, pas la planification — d'autant que la validation se fait en séance (238/239 dans les 24 h de la formation). Détail parlant : le module **Intro à l'IA**, absent du formulaire (`hiddenOnSite`), est déclaré **0 fois** alors qu'il est la 2ᵉ activité la plus utilisée sur Capytale — l'intention déclarée ne couvre même pas le périmètre réel.
 
+> **⚠️ Mise en cohérence avec la [Typologie](../commons/TYPOLOGIE_PROFILS_2026.md) §III — distinguer *amorçage* et *durabilité*.** Ce que mesure cette section, c'est l'effet de la formation sur l'**aboutissement en classe** (un établissement bascule-t-il en usage élève ?). La formation concentrée y aide nettement (facteur ~6). Mais une analyse de la **rétention année→année** montre que la formation **ne crée pas, par elle-même, des profs qui *reviennent*** : l'écart de retour formés/non-formés (54 % vs 27 %) est un **artefact de composition** (les établissements formés contiennent déjà plus de pionniers/fidèles ; à profil égal, aucun gain). Les deux constats sont compatibles et se complètent : **la formation amorce l'usage là où un collectif local s'en saisit ; la durabilité, elle, se joue sur la *dose de la première année* (≥2 activités, vraie séance), pas sur la formation en tant que telle.**
+
 ---
 
 ## 4. Temporalité, cohortes et rétention